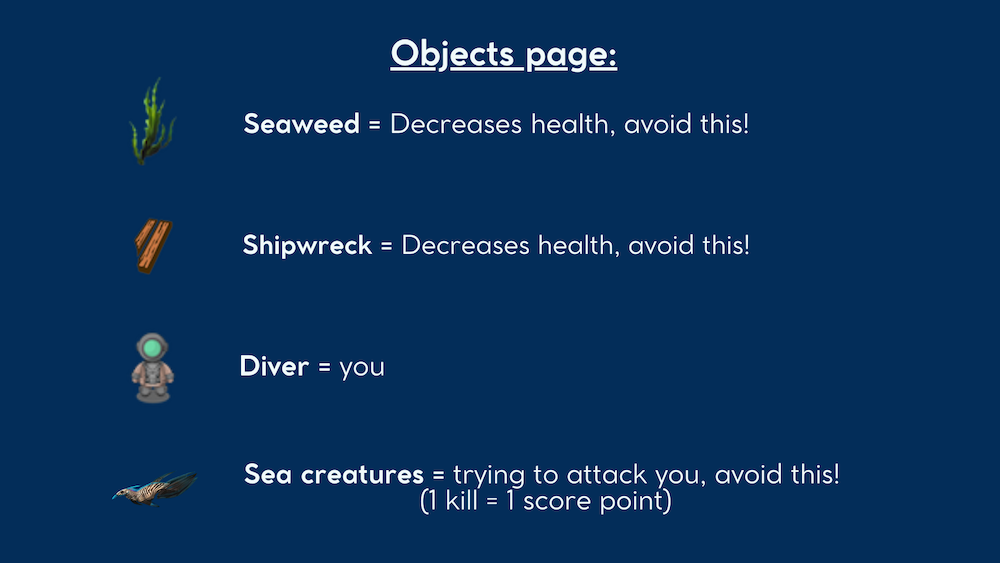
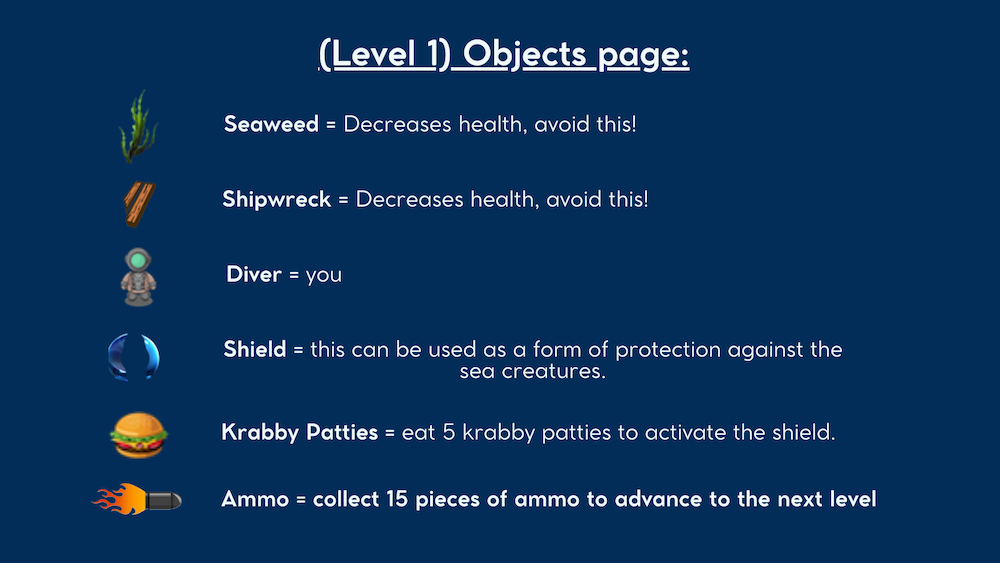
udated intro screens with better info

diff --git a/Level2Objects.java b/Level2Objects.java
@@ -1,29 +1,29 @@
 import greenfoot.*;  // (World, Actor, GreenfootImage, Greenfoot and MouseInfo)
 
 /**
- * Write a description of class intro2 here.
+ * Write a description of class Level2Objects here.
  * 
  * @author (your name) 
  * @version (a version number or a date)
  */
-public class intro2 extends World
+public class Level2Objects extends World
 {
 
     /**
-     * Constructor for objects of class intro2.
+     * Constructor for objects of class Level2Objects.
      * 
      */
-    public intro2()
+    public Level2Objects()
     {    
-       // Create a new world with 600x400 cells with a cell size of 1x1 pixels.
-       super(1000, 600, 1); 
-       act();
+        // Create a new world with 600x400 cells with a cell size of 1x1 pixels.
+        super(1000, 600, 1); 
+        act();
     }
 
     public void act() {
         showText("Click anywhere to continue ", 500 , 571);
         if (Greenfoot.mouseClicked(this) == true) {
-            Greenfoot.setWorld(new Level1instruction());
+            Greenfoot.setWorld(new level2intstruction());
         }
     }
     

diff --git a/Welcome.java b/Welcome.java
@@ -8,6 +8,8 @@ import greenfoot.*;  // (World, Actor, GreenfootImage, Greenfoot and MouseInfo)
  */
 public class Welcome extends World
 {
+    PlayButton button = new PlayButton();
+    
 
     /**
      * Constructor for objects of class Welcome.
@@ -17,13 +19,23 @@ public class Welcome extends World
     {    
         // Create a new world with 600x400 cells with a cell size of 1x1 pixels.
         super(1000, 600, 1); 
-        PlayButton button = new PlayButton();
         addObject(button, 495, 474);
+        act();
+        
     }
 
-   /*  public void act() {
-        if (Greenfoot.mouseClicked(this) == true) {
+    public boolean checkClick(){
+        if (button.click()) {
+            return true;
+        } else {
+            return false;
+        }
+    }
+
+     public void act() {
+        checkClick();
+        if (checkClick()) {
             Greenfoot.setWorld(new World2());
         }
-    }*/
+    }
 }

diff --git a/Level1instruction.java b/Level1instruction.java
@@ -1,0 +1,29 @@
+import greenfoot.*;  // (World, Actor, GreenfootImage, Greenfoot and MouseInfo)
+
+/**
+ * Write a description of class Level1instruction here.
+ * 
+ * @author (your name) 
+ * @version (a version number or a date)
+ */
+public class Level1instruction extends World
+{
+
+    /**
+     * Constructor for objects of class Level1instruction.
+     * 
+     */
+    public Level1instruction()
+    {    
+        // Create a new world with 600x400 cells with a cell size of 1x1 pixels.
+        super(1000, 600, 1); 
+        act();
+    }
+
+    public void act() {
+        showText("Click anywhere to START LEVEL 1 ", 500 , 571);
+        if (Greenfoot.mouseClicked(this) == true) {
+            Greenfoot.setWorld(new Level1());
+        }
+    }
+}

diff --git a/PlayButton.java b/PlayButton.java
@@ -13,9 +13,18 @@ public class PlayButton extends Actor
      * the 'Act' or 'Run' button gets pressed in the environment.
      */
     public void act() {
+        click();
         // Add your action code here.
-        if (Greenfoot.mouseClicked(this) == true) {
+       /*  if (Greenfoot.mouseClicked(this) == true) {
             Greenfoot.setWorld(new World2());
+        } */
+    }
+
+    public boolean click() {
+        if (Greenfoot.mouseClicked(this) == true) {
+            return true;
+        } else {
+            return false;
         }
     }
 }
